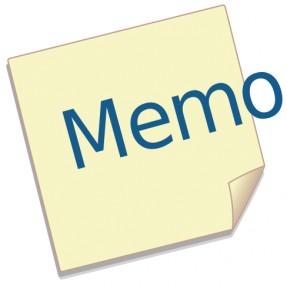
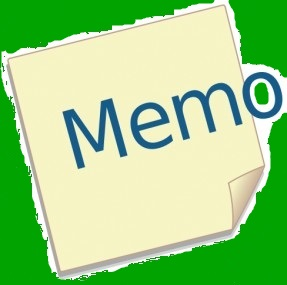
Changed colors

diff --git a/index.html b/index.html
@@ -27,7 +27,7 @@
 		<p>
 
 		<div ng-repeat="memo in memo_response.memos">
-			<table border=1>
+			<table border=1 style="background-color: #ffffaa;">
 				<tr><td><b>Namn:</b> {{memo.userId}}</td></tr>
 				<tr><td><b>Memo:</b> {{memo.memo}}</td></tr>
 				<tr><td><b>Datum/Tid:</b> {{memo.timestamp}}</td></tr>

diff --git a/style.css b/style.css
@@ -11,6 +11,7 @@
 
 body {
   font: 14px;
+  background: #00a300;
 }
 
 /* paragraphs */
